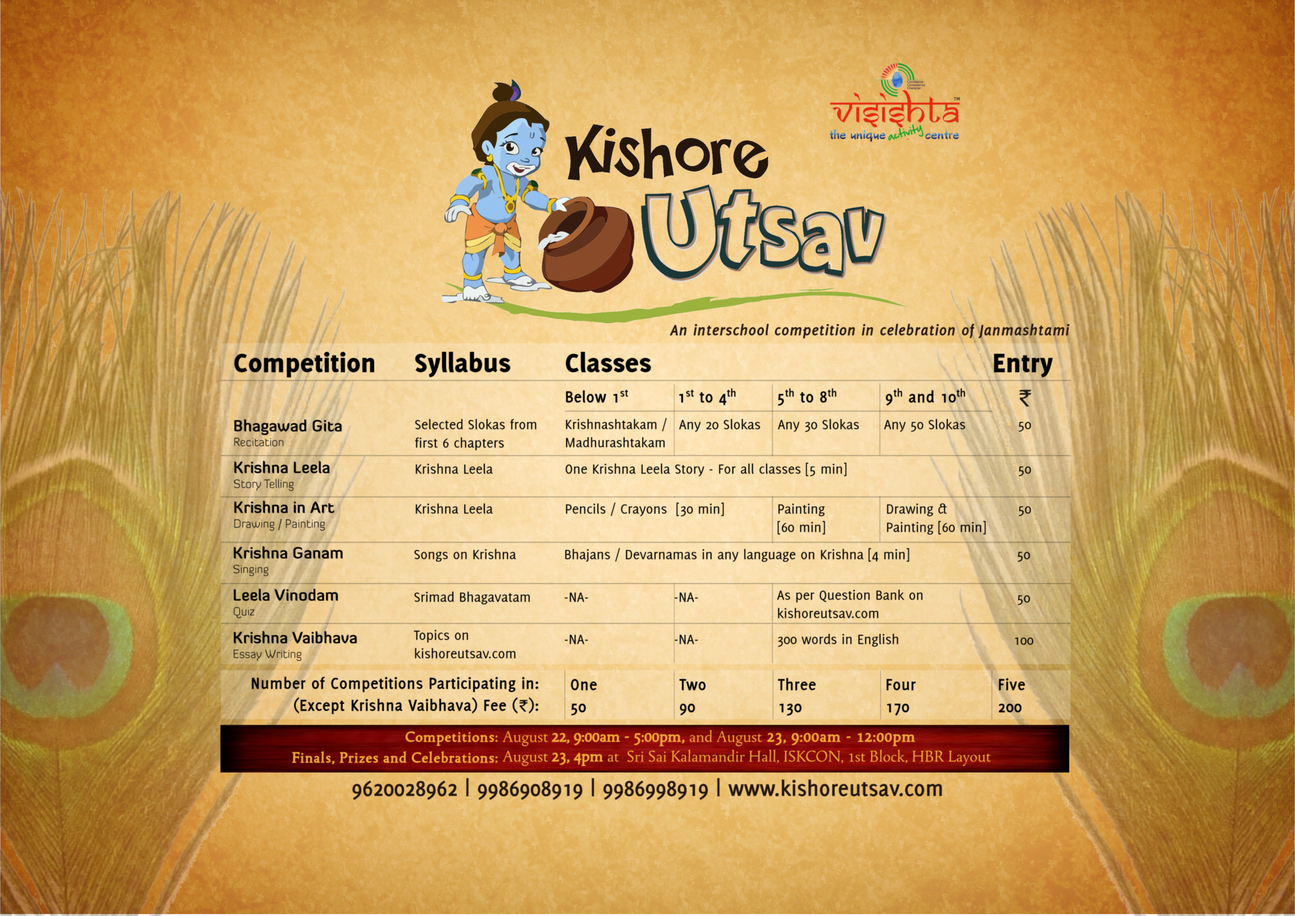
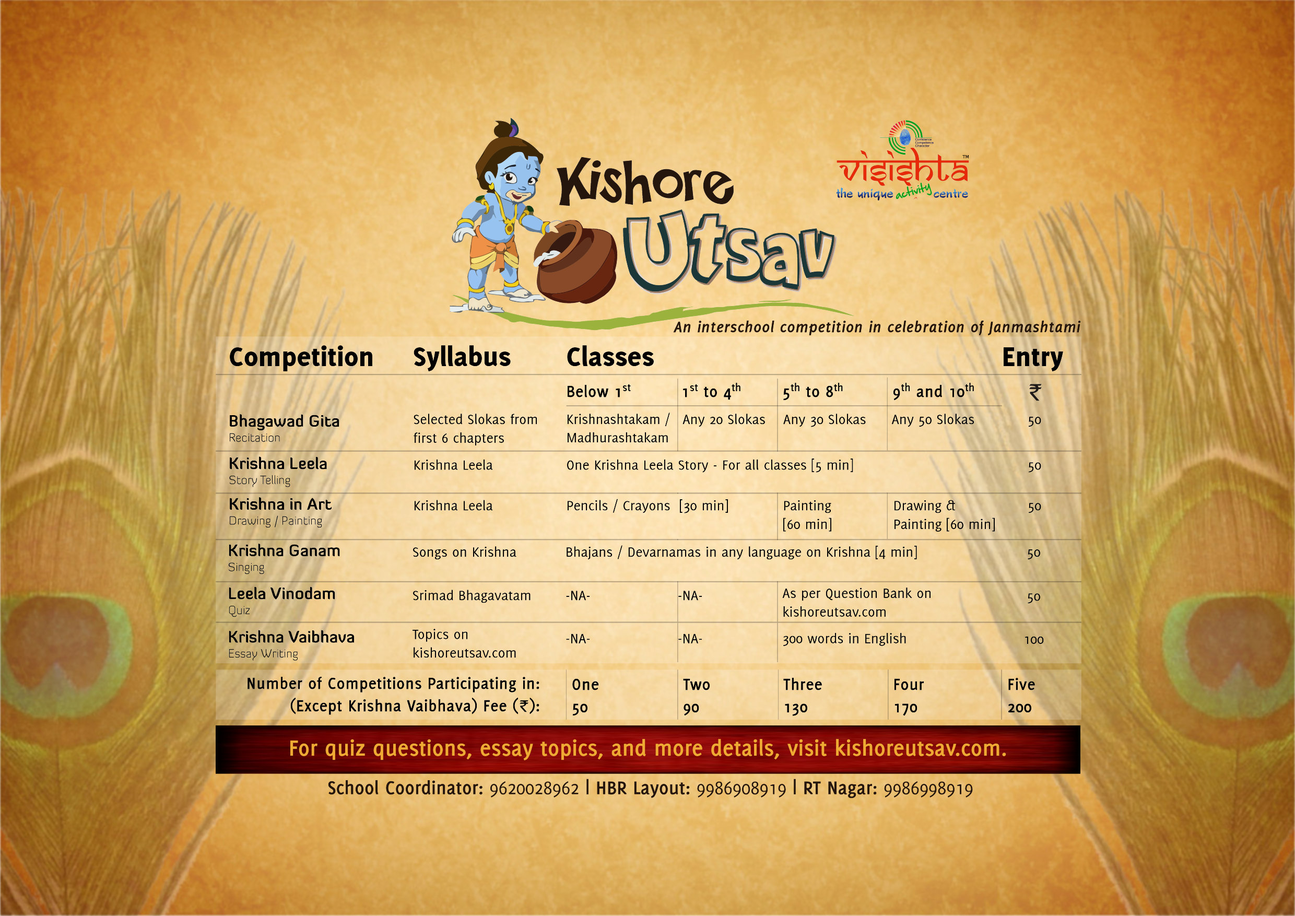
Fix images for 2016

diff --git a/index.html b/index.html
@@ -17,7 +17,7 @@
     </ul>
   </nav>
   <div class="page">
-    <img src="images/content.jpg" alt="Kishore Utsav information" style="width: 100%;">
+    <img src="images/web.jpg" alt="Kishore Utsav information" style="width: 100%;">
   </div>
 </body>
 </html>
